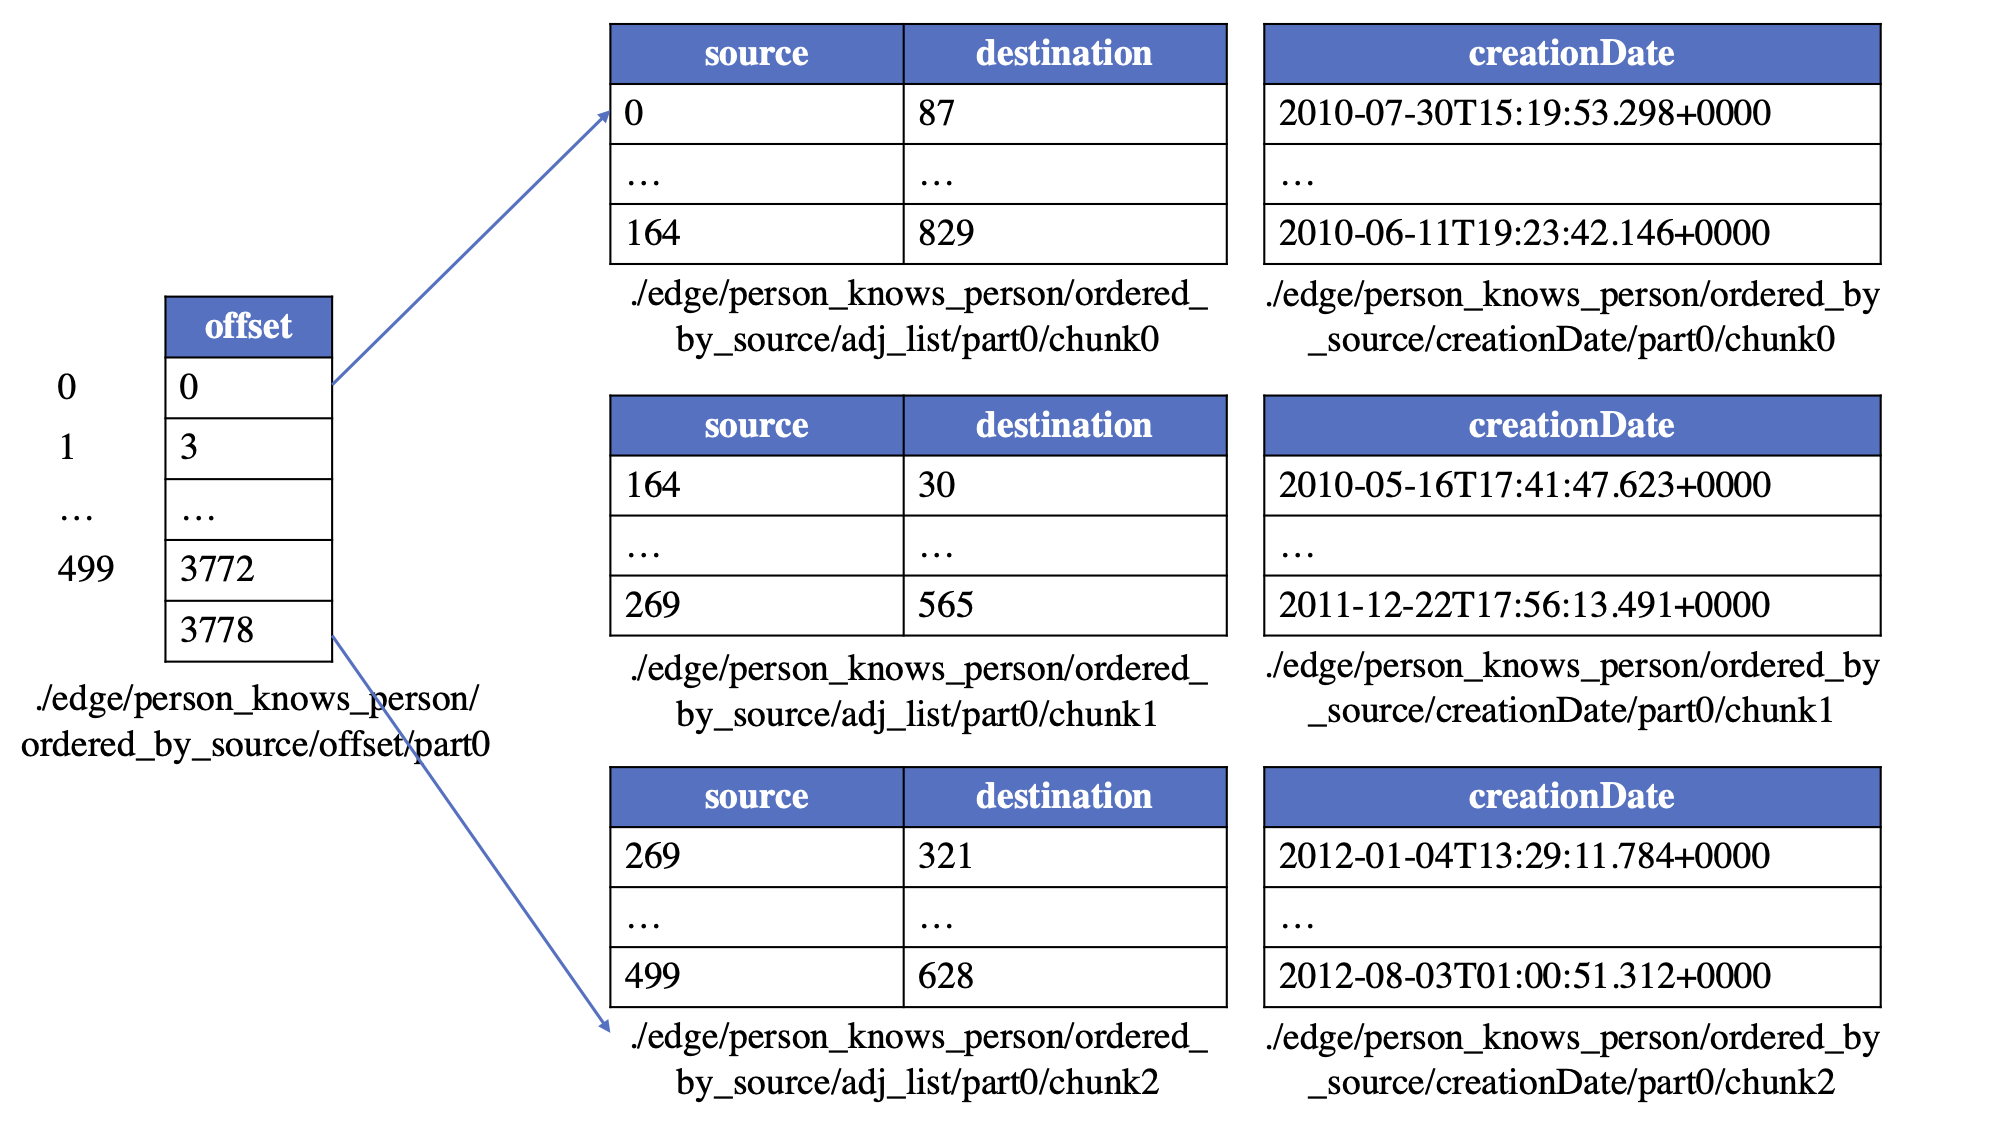
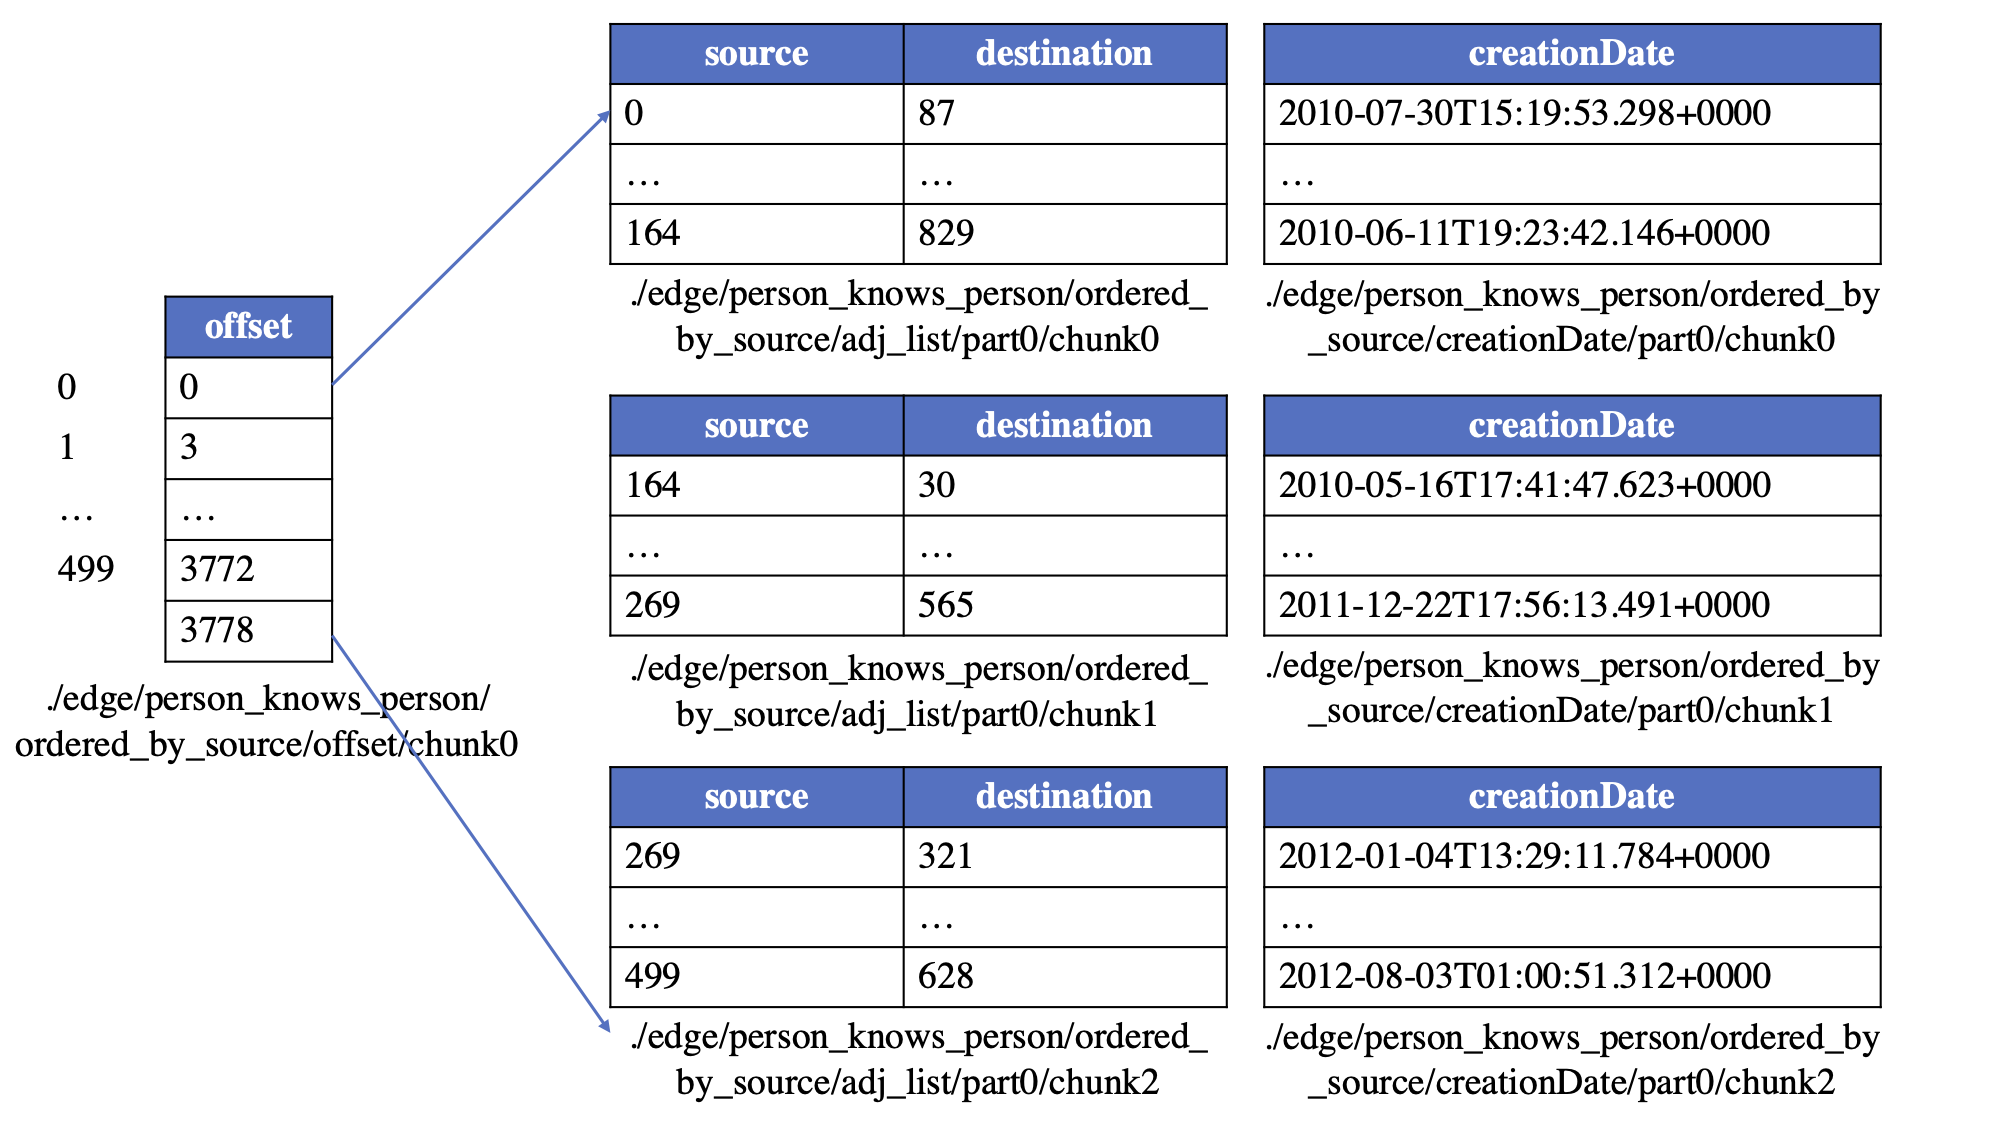
Fix prefix of GAR files in document

Changed region(s): [[0.0, 0.5911, 0.248, 0.6844]]

diff --git a/docs/user-guide/getting-started.rst b/docs/user-guide/getting-started.rst
@@ -47,7 +47,7 @@ GAR Data Files
 Property data
 `````````````
 The vertex properties are stored in vertex property chunks with the chunk size specified by the vertex information file. Different property groups correspond to individual groups of data files.
-In our example, the property group ("first name", "last name", "gender") for vertex chunk 0 of "person" vertices are stored in `./vertex/person/firstName_lastName_gender/part0`_.
+In our example, the property group ("first name", "last name", "gender") for vertex chunk 0 of "person" vertices are stored in `./vertex/person/firstName_lastName_gender/chunk0`_.
 
 In practice of graph processing, it is common to only query a subset of columns of the properties. Thus, the column-oriented formats like Apache ORC and Apache Parquet are more efficient, which eliminate the need to read columns that are not relevant. We also provide data files in ORC and Parquet for the example graph in the `test data`_.
 
@@ -63,7 +63,7 @@ For example, the file `./edge/person_knows_person/ordered_by_source/adj_list/par
 
 .. note::
 
-  If the edges are ordered, there may be offset chunks to construct the index for accessing edges of a single vertex. It stores the start offset for each vertex's edges, see `./edge/person_knows_person/ordered_by_source/offset/part0`_ as an example.
+  If the edges are ordered, there may be offset chunks to construct the index for accessing edges of a single vertex. It stores the start offset for each vertex's edges, see `./edge/person_knows_person/ordered_by_source/offset/chunk0`_ as an example.
 
 
 How to Use GAR
@@ -184,7 +184,7 @@ Please refer to `more examples <../applications/out-of-core.html>`_ for learning
 
 .. _person_knows_person.edge.yml: https://github.com/GraphScope/gar-test/blob/main/ldbc_sample/csv/person_knows_person.edge.yml
 
-.. _./vertex/person/firstName_lastName_gender/part0: https://github.com/GraphScope/gar-test/blob/main/ldbc_sample/csv/vertex/person/firstName_lastName_gender/part0
+.. _./vertex/person/firstName_lastName_gender/chunk0: https://github.com/GraphScope/gar-test/blob/main/ldbc_sample/csv/vertex/person/firstName_lastName_gender/chunk0
 
 .. _test data: https://github.com/GraphScope/gar-test/blob/main/ldbc_sample/
 
@@ -192,7 +192,7 @@ Please refer to `more examples <../applications/out-of-core.html>`_ for learning
 
 .. _./edge/person_knows_person/ordered_by_source/adj_list/part0/chunk0: https://github.com/GraphScope/gar-test/blob/main/ldbc_sample/csv/edge/person_knows_person/ordered_by_source/adj_list/part0/chunk0
 
-.. _./edge/person_knows_person/ordered_by_source/offset/part0: https://github.com/GraphScope/gar-test/blob/main/ldbc_sample/csv/edge/person_knows_person/ordered_by_source/offset/part0
+.. _./edge/person_knows_person/ordered_by_source/offset/chunk0: https://github.com/GraphScope/gar-test/blob/main/ldbc_sample/csv/edge/person_knows_person/ordered_by_source/offset/chunk0
 
 .. _example program: https://github.com/alibaba/GraphAr/blob/main/examples/construct_info_example.cc
 
